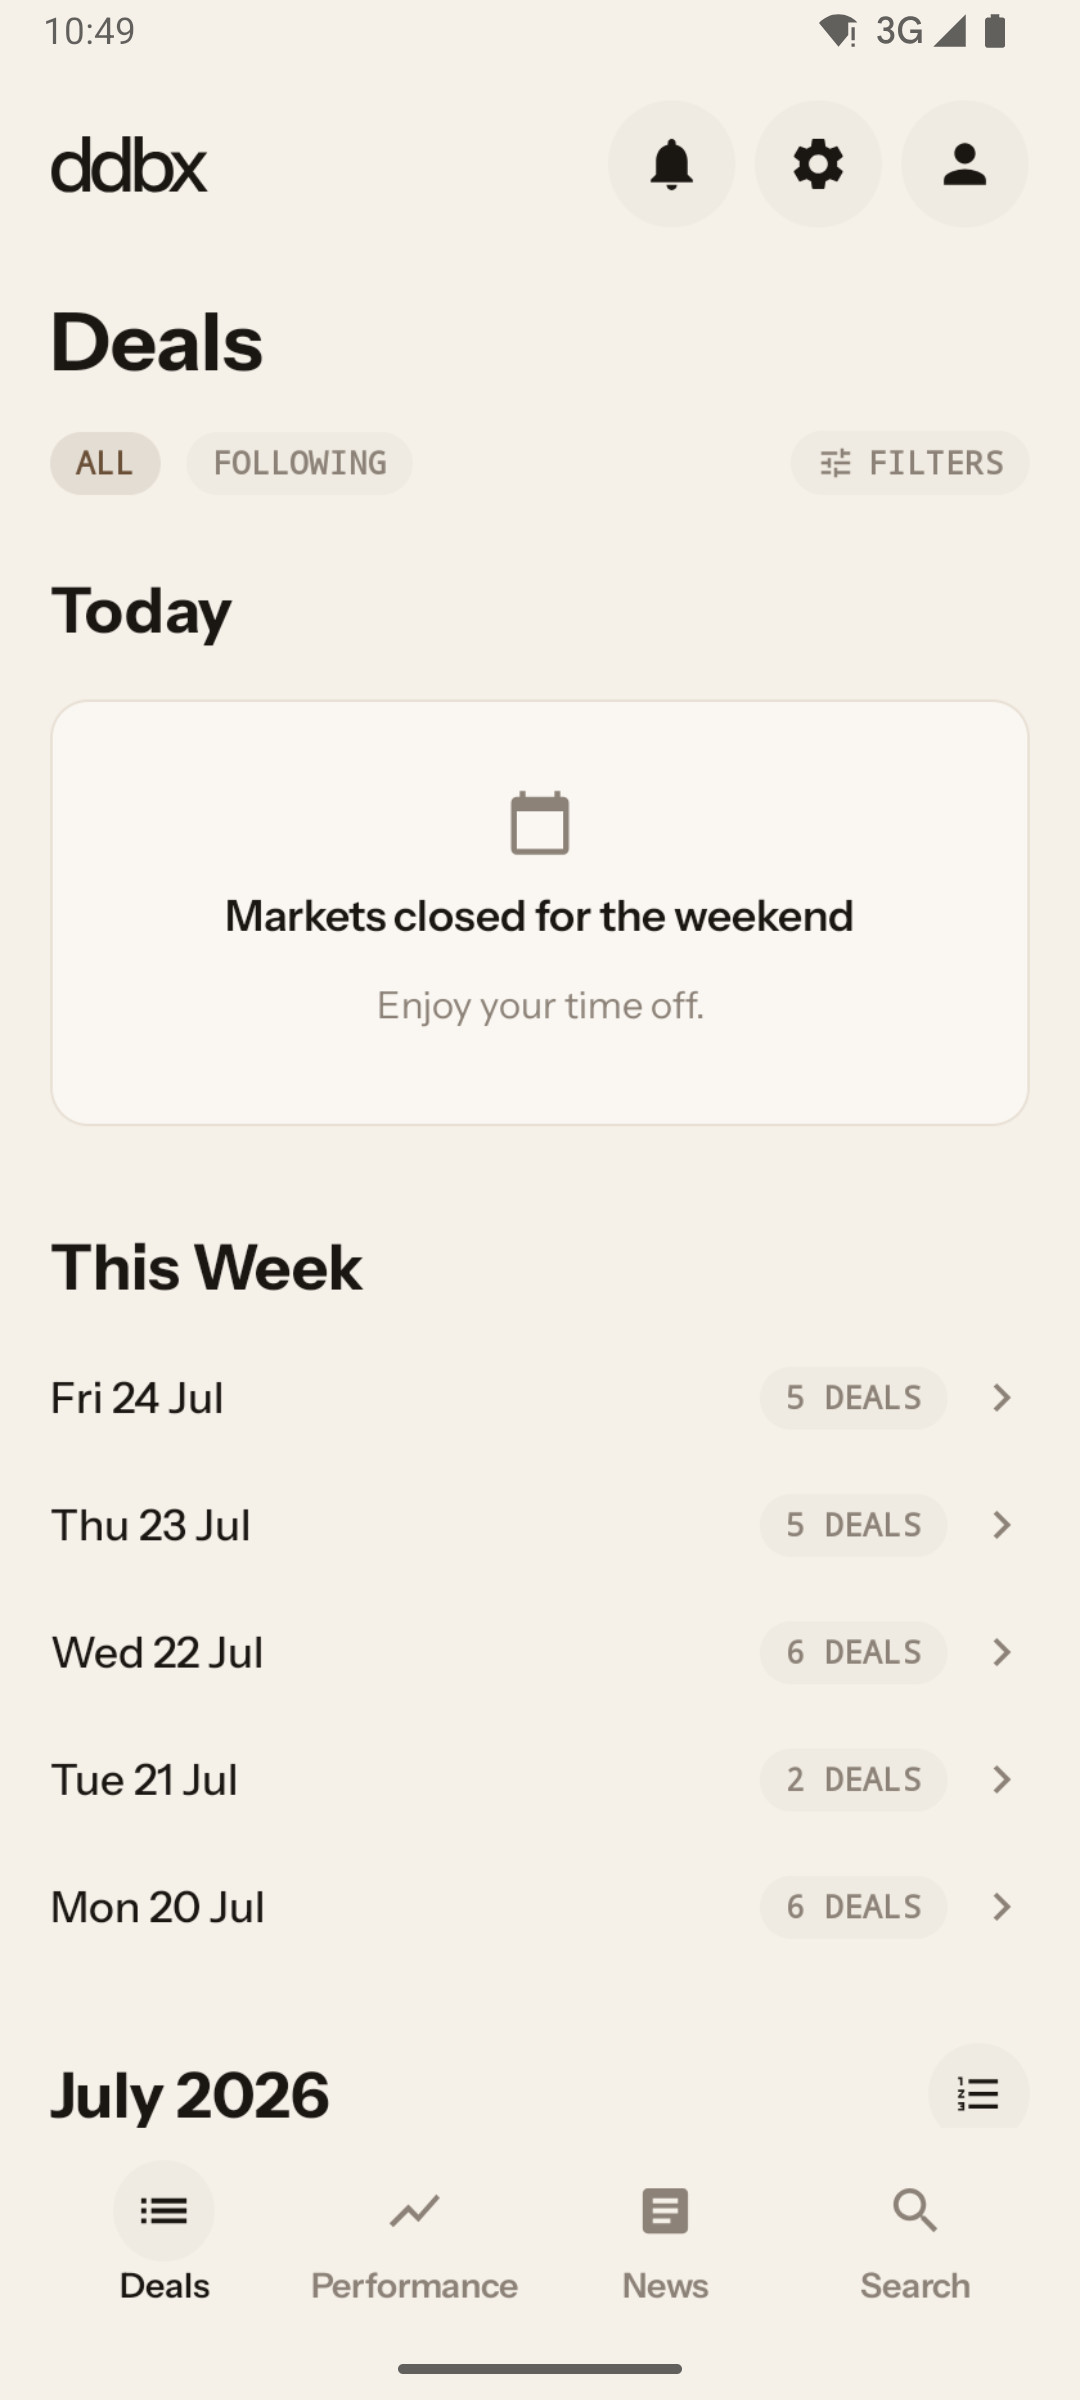
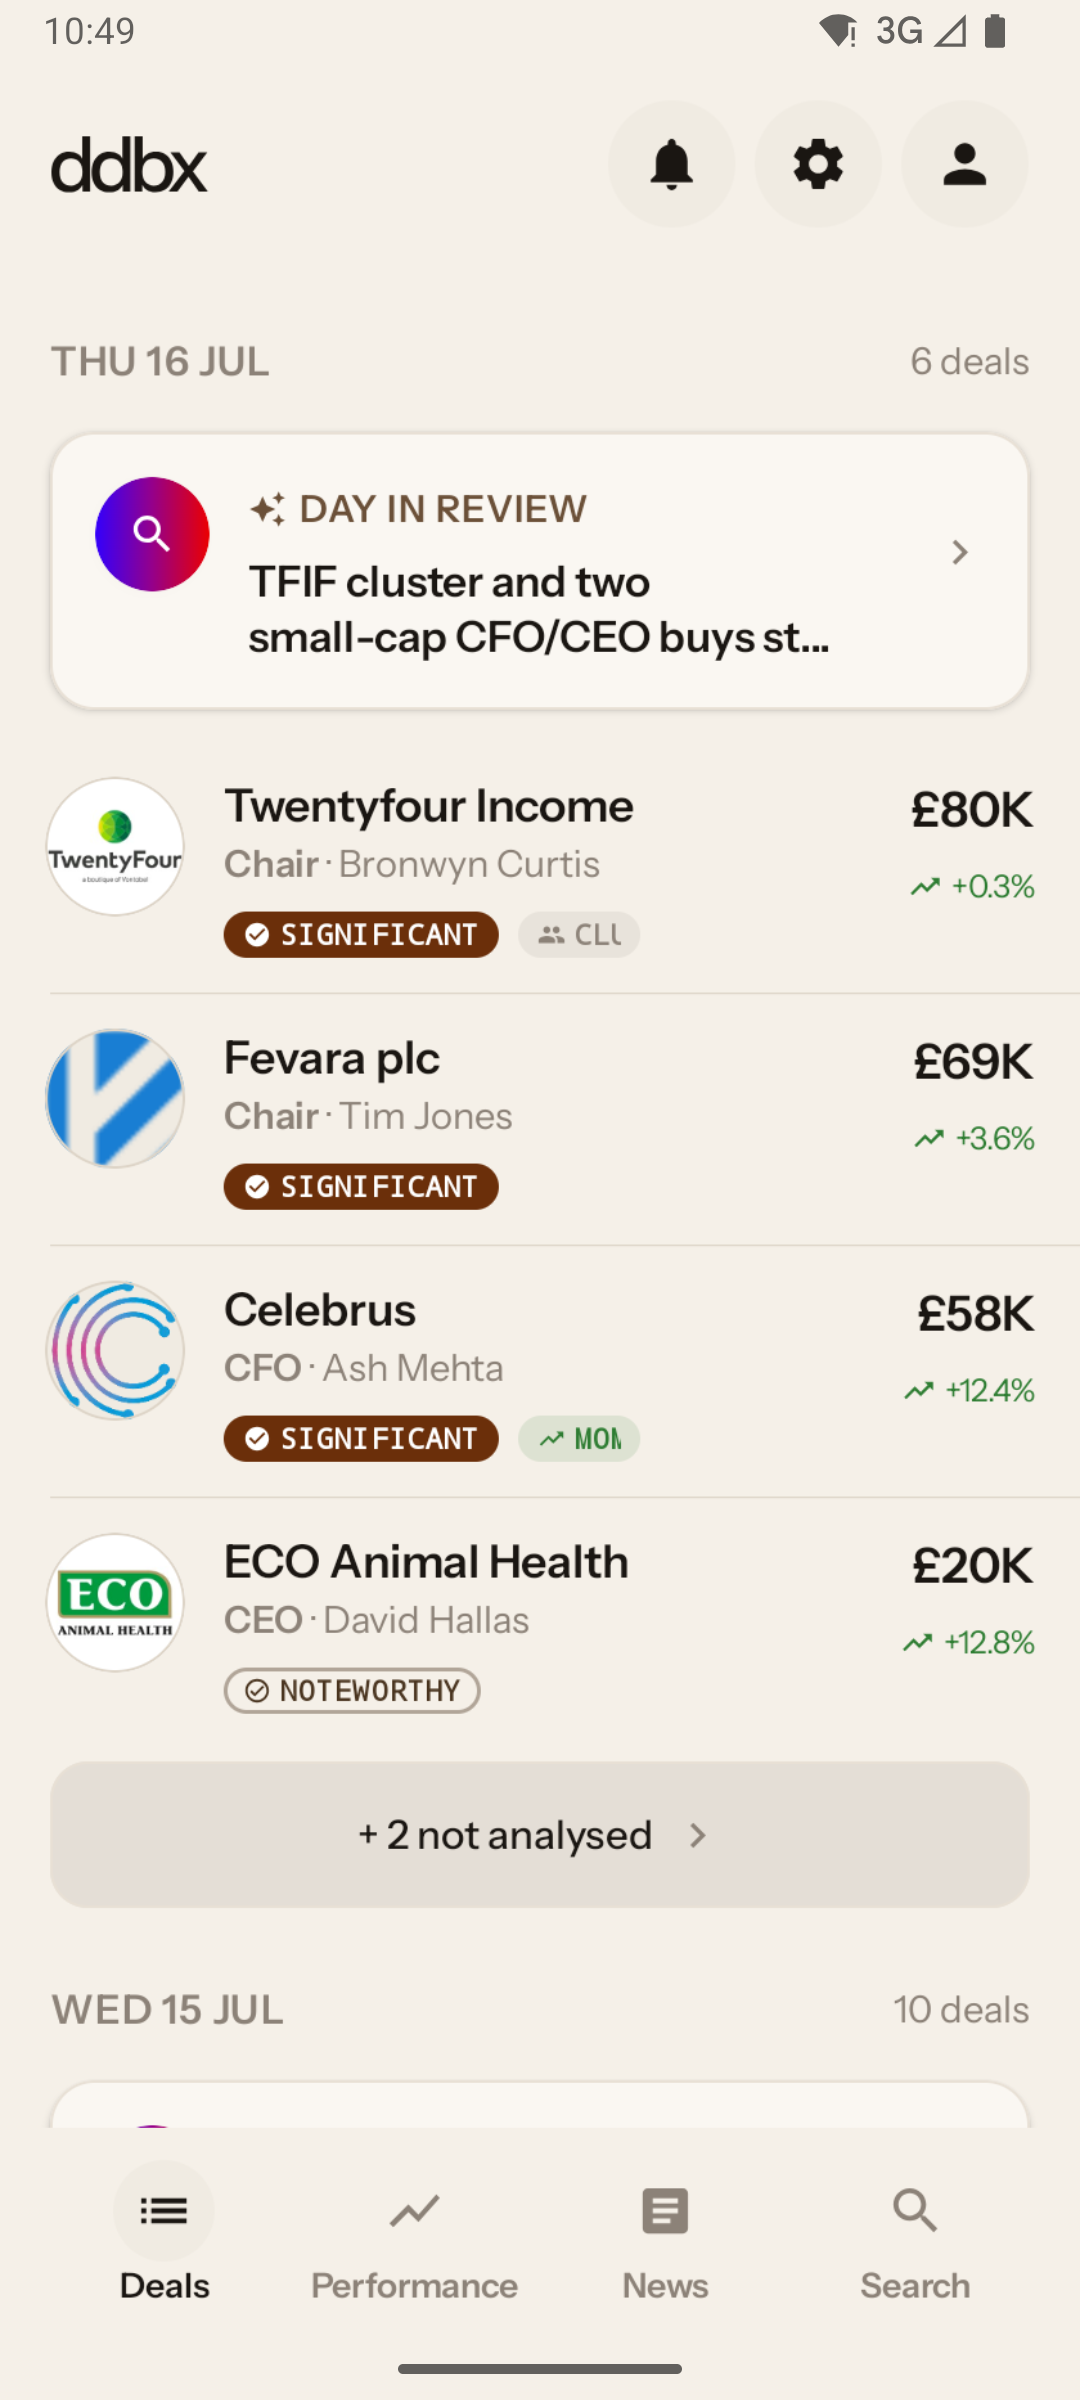
feat(download): buys-list hero, cluster tour beat, roomier Android top bezel
Hero screenshot is now a populated list of buys — a day with real purchases,
ratings and returns visible — instead of the weekend "markets closed" empty
state. That was the one screen the hero exists to sell and it was showing
nothing happening.

The live notification banner moves from 11% down the screen to the top edge.
That offset was measured against the old bezel padding; once the hero went
bare it dropped into the middle of the shot and buried the very list it sits
above. It now lands over the status bar and app header, where iOS and Android
actually put a banner.

Adds a `cluster` slot and a fifth tour beat for it. The cluster drawer is the
strongest screen in the app — every purchase in a run plotted on the price
chart, the average paid, and "the price rose 52% over the 3 weeks they were
buying" — and nothing on the page was showing it.

Android frame: the top bezel is now thicker than the sides (4.6cqw vs 3.5).
A screenshot brings its own status bar hard against the top edge, so a thin
top rail left the clock and punch-hole looking cramped against the frame. The
punch-hole lens loses its cool highlight too — it read as a blue dot sitting
on the UI rather than a lens under the glass.

diff --git a/src/components/download/device-frame.tsx b/src/components/download/device-frame.tsx
@@ -131,15 +131,21 @@ export function DeviceFrame({
              share of the device width — measured off the real handsets.
              iPhone: near-symmetrical bezel, very round corners. */
           --dvf-bezel: 2.9cqw;
-          --dvf-chin: 2.9cqw;
+          --dvf-bezel-top: 3.1cqw;
+          --dvf-chin: 3.1cqw;
           --dvf-radius: 13.2cqw;
         }
         /* Pixel-class Android: thicker bezel, a visibly larger chin, and
            noticeably squarer corners. Getting these wrong is what makes a
-           "generic phone" read as an iPhone with the wrong cutout. */
+           "generic phone" read as an iPhone with the wrong cutout.
+           The top bezel is thicker again than the sides — a screenshot brings
+           its own status bar hard against the top edge, so a thin top rail
+           leaves the clock and the punch-hole looking cramped against the
+           frame. */
         .dvf-android {
           --dvf-bezel: 3.5cqw;
-          --dvf-chin: 4.4cqw;
+          --dvf-bezel-top: 4.6cqw;
+          --dvf-chin: 4.8cqw;
           --dvf-radius: 9cqw;
         }
 
@@ -148,7 +154,7 @@ export function DeviceFrame({
           /* Concentric corners: the outer radius must be the inner radius plus
              the bezel, or the frame's curve fights the screen's. */
           border-radius: calc(var(--dvf-radius) + var(--dvf-bezel));
-          padding: var(--dvf-bezel) var(--dvf-bezel) var(--dvf-chin);
+          padding: var(--dvf-bezel-top) var(--dvf-bezel) var(--dvf-chin);
           /* Brushed-titanium rail: a dark body with lighter edges where the
              chamfer would catch the light, warm-shifted so it belongs in the
              cream palette rather than reading as cold graphite. */
@@ -234,20 +240,22 @@ export function DeviceFrame({
            The lens gradient plus a bright rim is what sells it as hardware. */
         .dvf-punch {
           position: absolute;
-          top: 1.15%;
+          top: 1.35%;
           left: 50%;
           transform: translateX(-50%);
-          width: 3.4%;
+          width: 3.1%;
           aspect-ratio: 1;
           border-radius: 999px;
+          /* Neutral graphite, not blue — the earlier cool highlight read as a
+             tinted dot sitting on the UI rather than a lens under the glass. */
           background:
             radial-gradient(circle at 34% 30%,
-              #3d4048 0%,
-              #16181c 42%,
-              #050506 100%);
+              #3a3a3c 0%,
+              #17171a 45%,
+              #050505 100%);
           box-shadow:
-            0 0 0 0.5px rgba(190, 200, 215, 0.5),
-            0 0 3px 1px rgba(0, 0, 0, 0.4);
+            0 0 0 0.5px rgba(210, 210, 212, 0.34),
+            0 0 3px 1px rgba(0, 0, 0, 0.35);
           z-index: 2;
         }
         /* Stand-in home indicator for the placeholder — a real screenshot

diff --git a/src/components/download/download-hero.tsx b/src/components/download/download-hero.tsx
@@ -222,10 +222,17 @@ export function DownloadHero({
               src={appShotSrc(marketId, platform, "today")}
               variant="bare"
             />
-            {/* Pushed below the camera cutout: the stack reserves 30px above
-                its front card for the avatar badge, and at a smaller offset
-                that badge collided with the Dynamic Island / punch-hole. */}
-            <div className="pointer-events-none absolute inset-x-0 top-[11%] z-20 mx-auto w-[92%]">
+            {/* The banner has to land where iOS and Android actually put one:
+                against the top edge, over the status bar and app header. The
+                11% offset this replaces was measured against the old bezel
+                padding — with the bezel gone it dropped into the middle of the
+                screen and buried the Today section, which is the one part of
+                the shot the hero is selling.
+
+                `top-0` is the stack's own box; it reserves ~30px above the
+                front card for the avatar badge, so the card itself still lands
+                just below the top edge rather than flush against it. */}
+            <div className="pointer-events-none absolute inset-x-0 top-0 z-20 mx-auto w-[86%]">
               <HeroNotificationStack deals={radar.deals} tick={radar.tick} />
             </div>
           </div>
